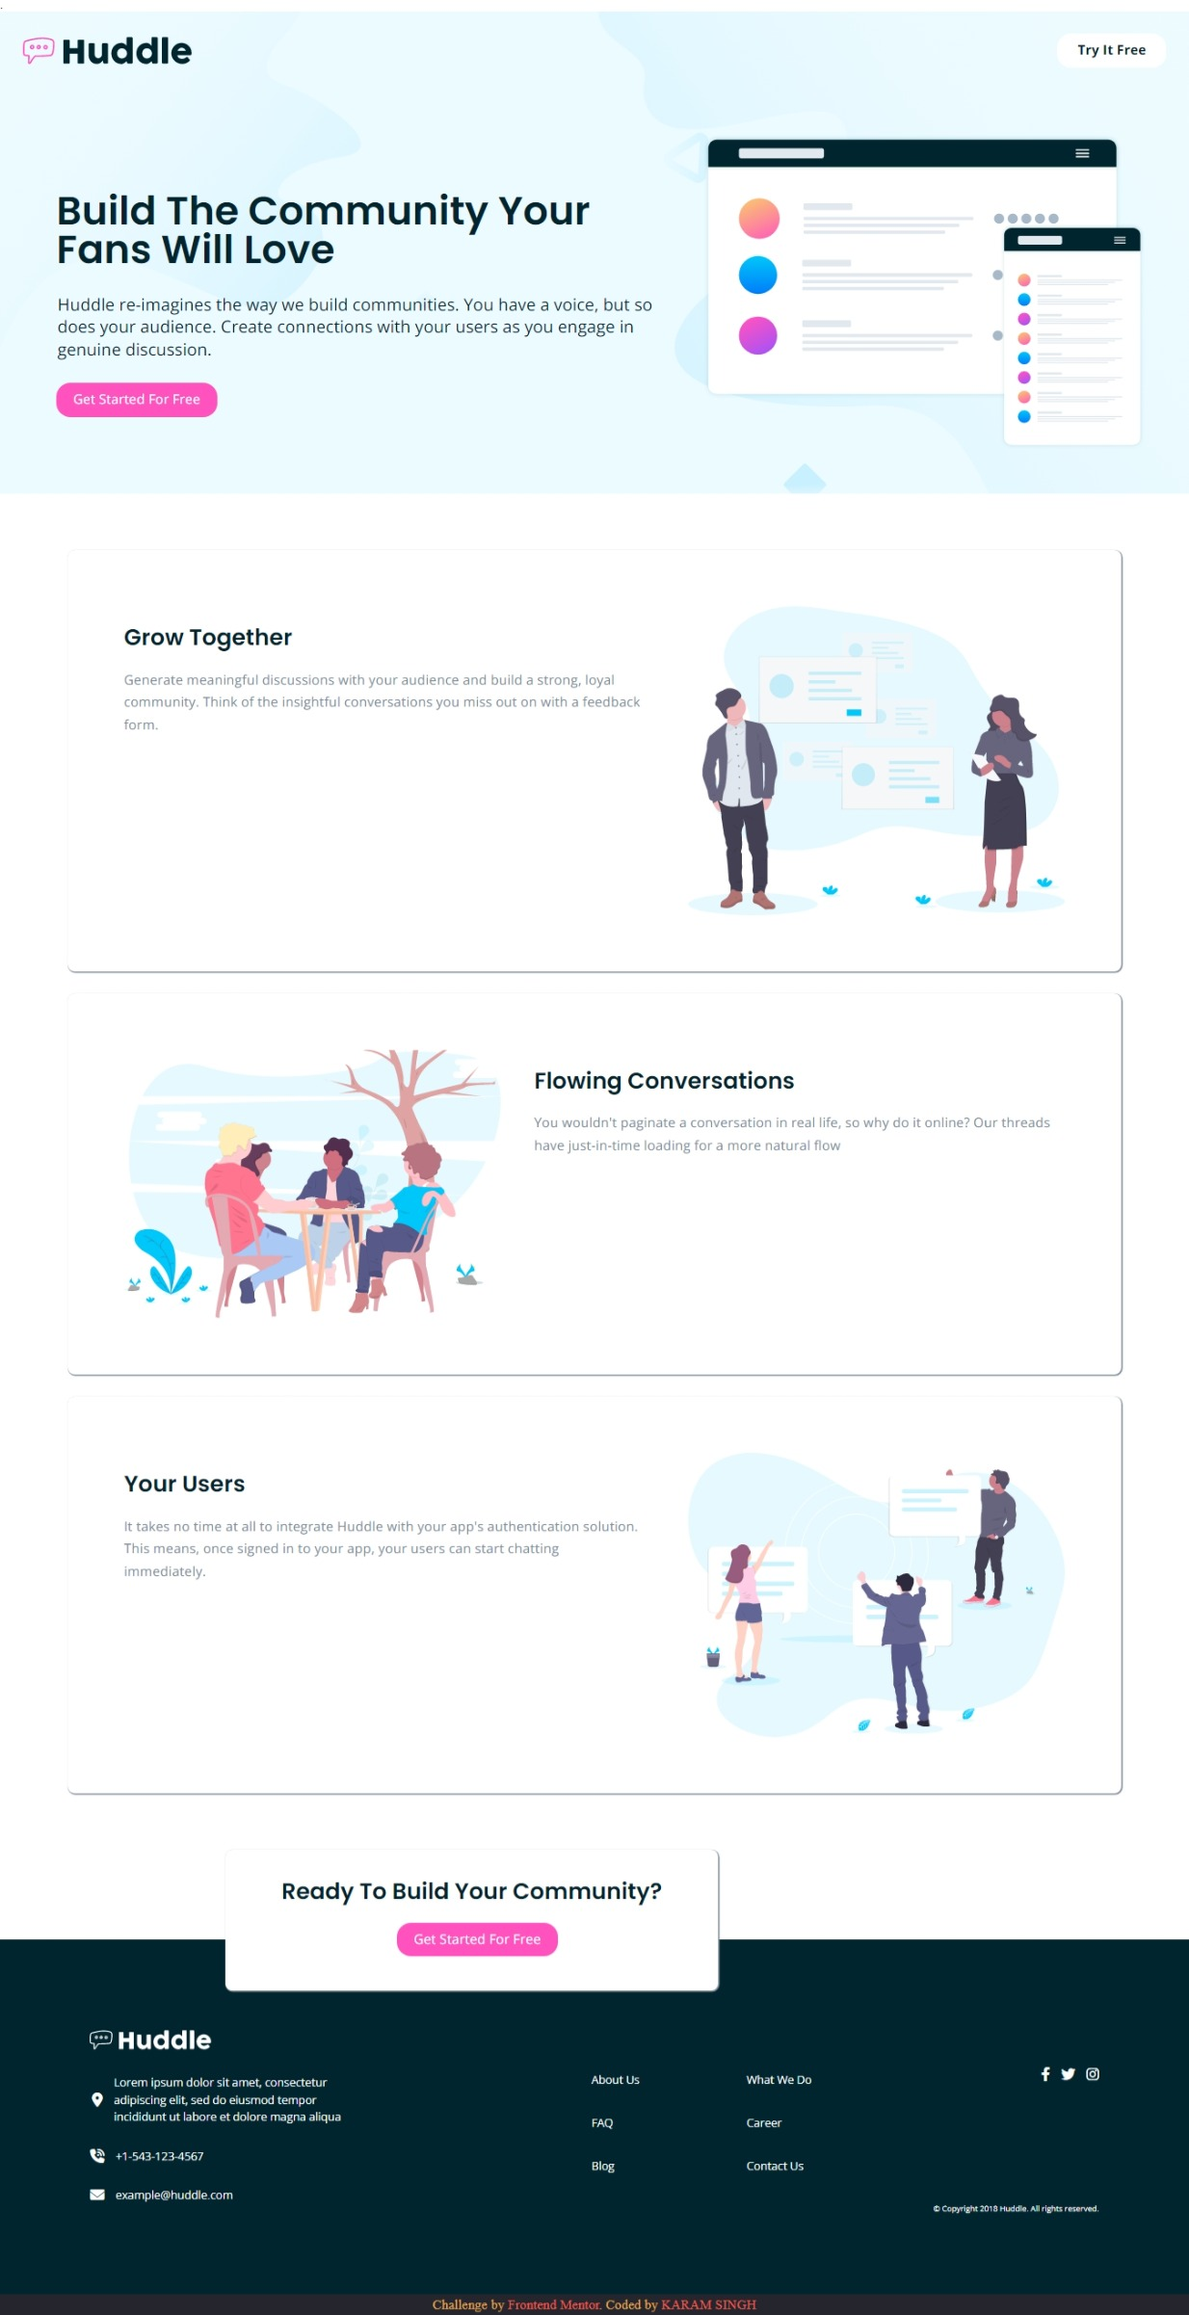
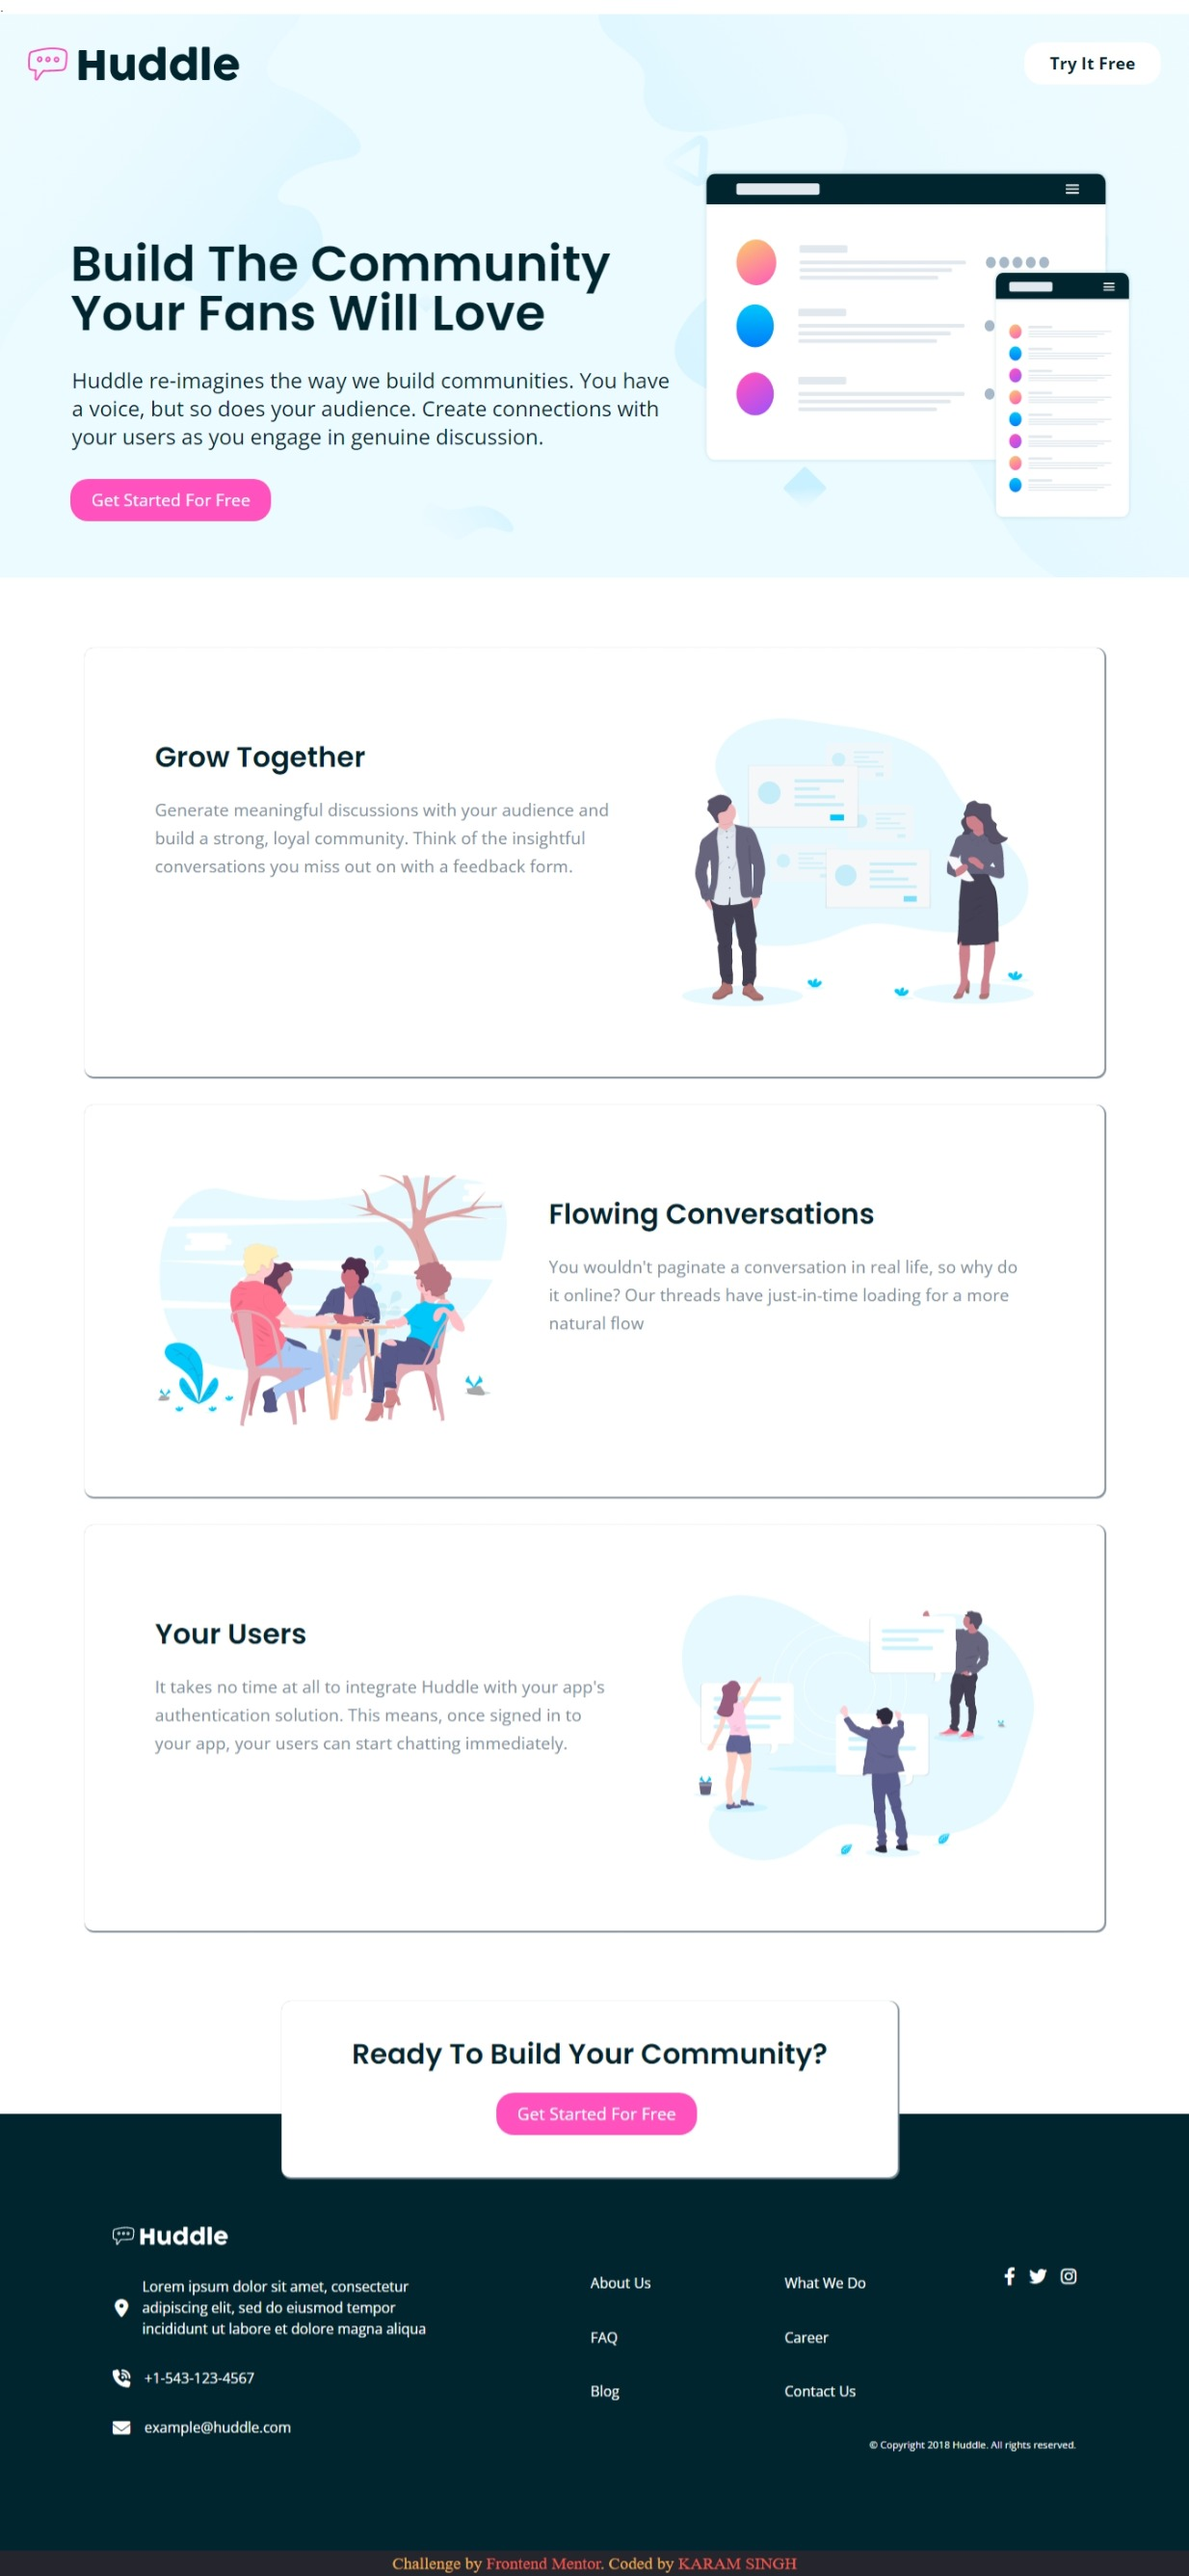
new

diff --git a/style.css b/style.css
@@ -151,7 +151,7 @@ section p{
     justify-content: center;
     margin-top: 5rem;
     width: 700px;
-    margin-left: 20rem;
+    margin-left: 30rem;
     box-shadow: 1px 1px 1px 1px hsl(208, 11%, 55%);
     text-align: center;
     padding: 3rem;
@@ -283,6 +283,11 @@ small{
   /* ======================== End Footer Area ================ */
   
   /* ======================== Start Media Querry Area ================ */
+  @media screen and (max-width:1375px) {
+    #fourth{
+        margin-left: 20rem;
+    }
+  }
   @media screen and (max-width:375px) {
         body{
             min-width: 375px;
